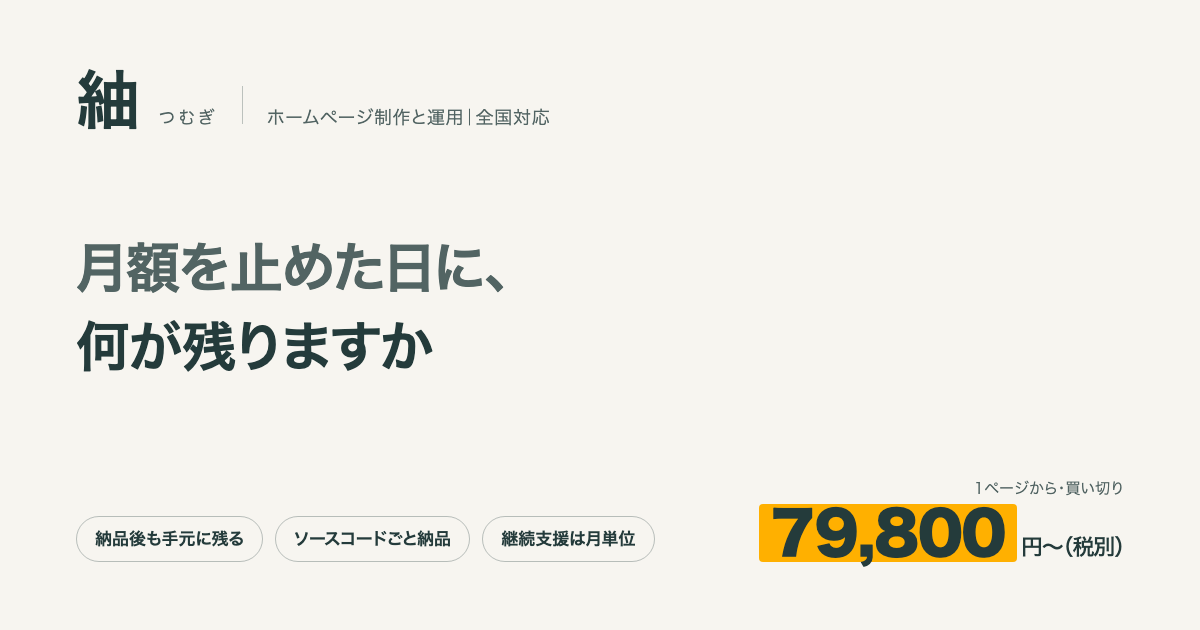
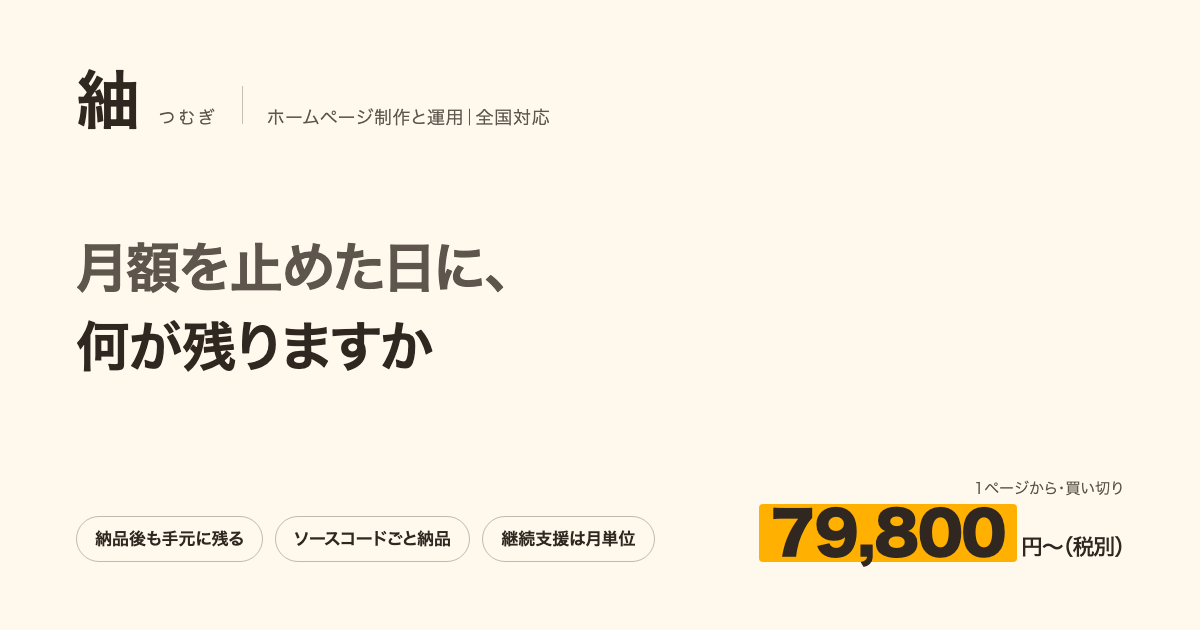
design: pair amber with warm ivory and espresso

diff --git a/src/styles/tokens.css b/src/styles/tokens.css
@@ -5,19 +5,19 @@
  */
 @theme static {
   /* color */
-  --color-main: #F7F5F0;  /* メイン70%：生成り。背景・余白・反転文字 */
-  --color-sub: #243B3B;  /* サブ20%：墨。本文・説明の面・構造線 */
+  --color-main: #FFF8ED;  /* メイン70%：アイボリー。背景・余白・反転文字 */
+  --color-sub: #302820;  /* サブ20%：エスプレッソ。本文・説明の面・構造線 */
   --color-accent: #FFB000;  /* アクセント10%：琥珀。主要操作・重要な数字・相談の面 */
-  --color-header-paper: #F7F5F0;
-  --color-header-ink: #243B3B;
+  --color-header-paper: #FFF8ED;
+  --color-header-ink: #302820;
   --color-header-brass: #FFB000;
-  --color-white: #F7F5F0;
-  --color-ink: #243B3B;
-  --color-panel: #243B3B;
-  --color-black: #243B3B;
-  --color-surface: #F7F5F0;
-  --color-field: #F7F5F0;
-  --color-paper: #F7F5F0;
+  --color-white: #FFF8ED;
+  --color-ink: #302820;
+  --color-panel: #302820;
+  --color-black: #302820;
+  --color-surface: #FFF8ED;
+  --color-field: #FFF8ED;
+  --color-paper: #FFF8ED;
   --color-line: color-mix(in srgb, var(--color-sub) 20%, var(--color-main));
   --color-line-strong: color-mix(in srgb, var(--color-sub) 45%, var(--color-main));
   --color-green: #FFB000;
@@ -25,19 +25,19 @@
   --color-blue: #FFB000;
   --color-muted: color-mix(in srgb, var(--color-sub) 78%, var(--color-main));
   --color-muted-on-ink: color-mix(in srgb, var(--color-main) 82%, var(--color-sub));
-  --color-alert: #243B3B;
-  --color-alert-bg: #F7F5F0;
+  --color-alert: #302820;
+  --color-alert-bg: #FFF8ED;
   --color-ok: color-mix(in srgb, var(--color-accent) 25%, var(--color-sub));
-  --color-ok-bg: #F7F5F0;
-  --color-warn: #243B3B;
-  --color-warn-bg: #F7F5F0;
+  --color-ok-bg: #FFF8ED;
+  --color-warn: #302820;
+  --color-warn-bg: #FFF8ED;
 
   /* theme */
   --color-campaign-accent: #FFB000;
-  --color-campaign-accent-ink: #243B3B;  /* 琥珀の面は墨の文字。小さい文字も薄めない */
+  --color-campaign-accent-ink: #302820;  /* 琥珀の面はエスプレッソの文字。小さい文字も薄めない */
   --color-campaign-accent-text: color-mix(in srgb, var(--color-accent) 25%, var(--color-sub));  /* 白地に置く強調文字・リンク */
   --color-main-accent: #FFB000;
-  --color-main-accent-ink: #243B3B;
+  --color-main-accent-ink: #302820;
   --color-main-accent-text: color-mix(in srgb, var(--color-accent) 25%, var(--color-sub));
 
   /* size */

diff --git a/tools/verify/static.ts b/tools/verify/static.ts
@@ -70,8 +70,8 @@ export function checkStatic(dist: string): void {
     ['--spacing-measure-read: 720px', '読み幅 720px'],
     ['--text-hero-pc: 45px', 'ヒーロー PC 45px'],
     ['--text-hero-mb: 24px', 'ヒーロー モバイル 24px'],
-    ['--color-main: #F7F5F0', 'メイン70%・生成り #F7F5F0'],
-    ['--color-sub: #243B3B', 'サブ20%・墨 #243B3B'],
+    ['--color-main: #FFF8ED', 'メイン70%・アイボリー #FFF8ED'],
+    ['--color-sub: #302820', 'サブ20%・エスプレッソ #302820'],
     ['--color-accent: #FFB000', 'アクセント10%・琥珀 #FFB000'],
     ['--radius-media: 8px', '角丸 media 8px'],
     ['--radius-pill: 999px', '角丸 pill 999px'],

diff --git a/tests/styles.test.ts b/tests/styles.test.ts
@@ -41,8 +41,8 @@ describe('Tailwind production compiler', () => {
         await buildStyles(`src/styles/${input}.css`, output);
         const css = readFileSync(output, 'utf8');
         expect(css).toContain('tailwindcss v4.');
-        expect(css).toContain('--color-main: #F7F5F0');
-        expect(css).toContain('--color-sub: #243B3B');
+        expect(css).toContain('--color-main: #FFF8ED');
+        expect(css).toContain('--color-sub: #302820');
         expect(css).toContain('--color-accent: #FFB000');
         expect(css).not.toMatch(/@(?:apply|theme|import|source)\b/);
         if (input === 'globals') {

diff --git a/docs/product/design.md b/docs/product/design.md
@@ -13,8 +13,8 @@
 
 | 項目 | 値 | 出所 |
 |---|---|---|
-| メイン70% | 生成り `#F7F5F0`：背景・余白・図解の面 | ADR 0014 |
-| サブ20% | 墨 `#243B3B`：文字・説明の暗い章 | ADR 0014 |
+| メイン70% | アイボリー `#FFF8ED`：背景・余白・図解の面 | ADR 0014 |
+| サブ20% | エスプレッソ `#302820`：文字・説明の暗い章 | ADR 0014 |
 | アクセント10% | 琥珀 `#FFB000`：主要CTA・料金・相談の面 | ADR 0014 |
 | 補助文字・線 | 上記3色からの混色・透過。独立した色値を増やさない | ADR 0014 |
 | ヘッダー高 | PC 88px → モバイル 72px | ADR 0006（07 寸法を更新） |
@@ -33,7 +33,7 @@
 
 ### 紬のブランドヘッダー
 
-生成り `#F7F5F0` に墨 `#243B3B` を置き、琥珀 `#FFB000` の問い合わせボタンと細い罫線を添えます。屋号だけを端末の明朝にし、欧文とナビゲーションは既存のゴシックにします。ヘッダーは画像に重ねず、その直上に独立した面として置きます。
+アイボリー `#FFF8ED` にエスプレッソ `#302820` を置き、琥珀 `#FFB000` の問い合わせボタンと細い罫線を添えます。屋号だけを端末の明朝にし、欧文とナビゲーションは既存のゴシックにします。ヘッダーは画像に重ねず、その直上に独立した面として置きます。
 
 PCは88px、768px以下は72px。999px以下では横並びの主ナビを全体メニューに集約し、問い合わせは常時表示します。1440px以上では電話もヘッダーに表示し、それ以下では全体メニューと既存の下部導線から利用できます。電話はアイコンと番号だけです。準備中の注意帯は残します。
 
@@ -41,11 +41,11 @@ PCは88px、768px以下は72px。999px以下では横並びの主ナビを全体
 
 ### 3色の使い方と7:2:1
 
-メイン70%・サブ20%・アクセント10%は、写真・ヒーローイラストを除くUIの面積バランスの目安です。すべての部品やページを同じピクセル比率へ強制するものではありません。ホームでは生成りの本文を中心に、約束・標準仕様・料金比較を墨色の章、最後の相談と冒頭の料金パネルを琥珀色の面とします。スマートフォンは文章が縦に伸びるため比率が多少変わります。
+メイン70%・サブ20%・アクセント10%は、写真・ヒーローイラストを除くUIの面積バランスの目安です。すべての部品やページを同じピクセル比率へ強制するものではありません。ホームではアイボリーの本文を中心に、約束・標準仕様・料金比較をエスプレッソ色の章、最後の相談と冒頭の料金パネルを琥珀色の面とします。スマートフォンは文章が縦に伸びるため比率が多少変わります。
 
 色値の正本は `src/styles/design.tokens.json` の `color.main` / `color.sub` / `color.accent` の3項目だけです。残りの色トークンは参照、または3色の混色・透過です。`PROFILE` の `campaign` と `main` も同じパレットを参照し、緑・青を復活させません。既存トークン名は部品互換のため保持します。ブラウザのテーマ色・OGP・ファビコンも同じ正本を使います。
 
-生成りと墨、琥珀と墨の組み合わせで文字を配置します。琥珀の面の小さな文字は墨にし、明るい面には琥珀と墨の混色による濃い強調文字を使います。暗い章でも図解のキャンバスは生成りにして、図内の文字と記号の読みやすさを確保します。アクセント変更の判断は [ADR 0015](../architecture/0015-amber-accent.md) を参照してください。状態は色だけに依存せず、チェック・バツ・見出し・説明文を残します。
+アイボリーとエスプレッソ、琥珀とエスプレッソの組み合わせで文字を配置します。琥珀の面の小さな文字はエスプレッソにし、明るい面には琥珀とエスプレッソの混色による濃い強調文字を使います。暗い章でも図解のキャンバスはアイボリーにして、図内の文字と記号の読みやすさを確保します。琥珀の採用は [ADR 0015](../architecture/0015-amber-accent.md)、メイン・サブの調整は [ADR 0016](../architecture/0016-warm-base-palette.md) を参照してください。状態は色だけに依存せず、チェック・バツ・見出し・説明文を残します。
 
 ヒーローの原画・アイコン・図解・コピー・料金のデータは保持します。追加の実行時JavaScript、外部フォント、UIライブラリはありません。判断と検証は [ADR 0014](../architecture/0014-three-color-system.md) を参照してください。
 
@@ -194,8 +194,8 @@ LCPが実測0.30秒で描画が詰まっていないのに、
 作り方の決めごと：
 
 - **色は2つだけ意味を持つ。**`--fig-accent`（こちらが勧める側）と `--fig-ok`（残るもの）。
-  `--fig-bad`（失われるもの）を加えた3つ。ほかは全部 `currentColor` の濃淡なので、明るい節・墨紺の節・ダークテーマのどこに置いても成立します
-- **暗い章でも図解の面を生成りにする。**図内は琥珀と墨で意味を区別し、小さい文字にも通常のコントラスト条件を適用します（ADR 0014）。
+  `--fig-bad`（失われるもの）を加えた3つ。ほかは全部 `currentColor` の濃淡なので、明るい節・エスプレッソ紺の節・ダークテーマのどこに置いても成立します
+- **暗い章でも図解の面をアイボリーにする。**図内は琥珀とエスプレッソで意味を区別し、小さい文字にも通常のコントラスト条件を適用します（ADR 0014）。
 - **`marker` の id は図ごとに固有にする。**1ページに複数の図が載るため、
   `fig()` が図の aria-label から決まる接尾辞を付けます（`dg-a…` / `dg-p…`）。
   通し番号にしないのは、ページを並列に書き出すとビルドのたびに番号が変わり、同じ入力から同じ HTML が出なくなるため

diff --git a/docs/status.md b/docs/status.md
@@ -1,6 +1,6 @@
 # 現状と残課題
 
-- 最終更新：2026-09-14（生成り・墨・琥珀の3色リデザイン）
+- 最終更新：2026-09-14（アイボリー・エスプレッソ・琥珀の3色リデザイン）
 - **作業を終えたら、この文書を更新する。** 終わった課題は消さずに「完了した課題」へ移し、日付を入れる
 - 事業として決めること（運用の工数・集客経路・出張撮影の扱いなど）の順番は、[ビジネスガイドライン](business/紬_ビジネスガイドライン.md) の「12. 未決事項」が正本。法令まわりの未解決は同じ文書の「8.1」。ここには、**コードと公開作業に関わるもの**を書く
 
@@ -22,9 +22,9 @@
 | 動作を確かめた環境 | macOS・Node 24.21.0・npm 12.0.2・Playwright 1.63.0（Chromium）。ローカル・CI・Vercel を Node 24 系へ統一 |
 | 文言とルート | `i18n/locales/ja/` と `routing/registry.ts` に集約。Next の入口3枚と表示テンプレートを分離。電話は共通部品でアイコン＋番号だけを表示（ADR 0004） |
 | CSSの中央管理 | Tailwind CSS 4.3.3。88個のトークンから `@theme` を生成し、公開ページは `globals.css`、共有カード画像は `og.css` を入口にコンパイル。ページの静的インライン指定を解消、開発時の監視と中央管理の自動検査を追加（ADR 0009） |
-| 共通フッター | 生成りの面と琥珀のCTAに、相談・連絡先・案内・大きなブランド文字を配置。アイコン32個、20ページへの案内、先頭への移動、現在地を表示（ADR 0008） |
-| ホーム本文 | 生成り70%・墨20%・琥珀10%をUI面積の目安として、広い図解・左右に分けた説明・料金比較・FAQを再構成。元の図解4点と全説明文を保持、本文のLucideアイコンは31→45。本文の構成はADR 0007、現行の配色はADR 0014 |
-| 共通ヘッダー | 生成り・墨・琥珀・明朝の屋号。高さ88/72px、問い合わせCTAとネイティブの全体メニュー。追加の実行時JS・外部フォントなし（ADR 0006） |
+| 共通フッター | アイボリーの面と琥珀のCTAに、相談・連絡先・案内・大きなブランド文字を配置。アイコン32個、20ページへの案内、先頭への移動、現在地を表示（ADR 0008） |
+| ホーム本文 | アイボリー70%・エスプレッソ20%・琥珀10%をUI面積の目安として、広い図解・左右に分けた説明・料金比較・FAQを再構成。元の図解4点と全説明文を保持、本文のLucideアイコンは31→45。本文の構成はADR 0007、現行の配色はADR 0014 |
+| 共通ヘッダー | アイボリー・エスプレッソ・琥珀・明朝の屋号。高さ88/72px、問い合わせCTAとネイティブの全体メニュー。追加の実行時JS・外部フォントなし（ADR 0006） |
 | 暫定ヒーロー | ヘッダー直下に国生みの画像を配置。自己完結SVG（WebP内包、約741 KiB）、モバイルの補助コピーと読み上げに対応（ADR 0005） |
 | 旧版 | Python 版（`svc/`）と Astro 版（`svc-astro/`）は削除済み。コミット `01f39d4` で読める。移植が正しいことの確かめ方は [history/2026-09-migration.md](history/2026-09-migration.md) |
 
@@ -158,3 +158,10 @@ GitHub Actions・Dependabot・npm・Vercelをルート基準へ統一。出力50
 ### 2026-09-14 アクセントを琥珀色へ変更
 
 利用者の黄色系への希望を受け、朱から琥珀 `#FFB000` に変更。生成り・墨との3色構成と7:2:1の面積方針を維持する。明るいアクセントの上は墨文字とし、図解やリンクの小さい強調文字は琥珀と墨から導出する。共有カード・ファビコンも同期。売上への効果は未検証であり、色だけを根拠に効果を保証しない。判断と検証は [ADR 0015](architecture/0015-amber-accent.md)。
+
+
+### 2026-09-14 琥珀に合わせてメイン・サブを調整
+
+メインを温かいアイボリー `#FFF8ED`、サブを深いブラウンのエスプレッソ `#302820` に変更。琥珀 `#FFB000` と70/20/10の構成を維持し、3色の色相を暖色側へ揃えた。中央トークンから文字・線・反転表示・ブラウザテーマ色・共有画像へ反映。原画・コピー・アイコン・図解の構成は保持する。判断は [ADR 0016](architecture/0016-warm-base-palette.md)。
+
+検証：型・lint・単体107件・料金モデル9件・ビルド成功。標準603 PASS / WARN 1 / FAIL 0、静的358 PASS。全21ページ×幅390/1440pxの42組で文字・図のコントラストと横はみ出しの失敗なし。

diff --git a/docs/spec.md b/docs/spec.md
@@ -24,7 +24,7 @@
 - 料金ページに全プランの金額が載っている
 - 業種別ページが4本ある
 - **`design.tokens.json` と `tokens.css` が同期している**（ずれていたら納品しない）
-- **採用した寸法・色15項目が出ている**（ヘッダーはADR 0006の88/72px、315×57、260×48、1104px、720px、45/24px、生成り `#F7F5F0`、墨 `#243B3B`、琥珀 `#FFB000`（ADR 0014）、角丸…）
+- **採用した寸法・色15項目が出ている**（ヘッダーはADR 0006の88/72px、315×57、260×48、1104px、720px、45/24px、アイボリー `#FFF8ED`、エスプレッソ `#302820`、琥珀 `#FFB000`（ADR 0014）、角丸…）
 - **使わないと決めた値が混入していない**（`#858A95`、旧Shipporiフォント、外部フォントの読み込み。屋号の端末明朝はADR 0006で採用）
 - **全ページに og:image があり、その画像が out に実在する**（真っ白な共有カードを出さない）
 - **ファビコンと apple-touch-icon が入っている**
@@ -55,7 +55,7 @@
 3. **1ページだけタップ領域の判定が誤検出していた。**
    CSS適用前に計測していた競合状態。
    → スタイルシートの適用完了を待ってから計測するようにしました。
-4. **図の琥珀色の注記が、墨紺の節の上で 2.94:1 しか出ていなかった。**
+4. **図の琥珀色の注記が、エスプレッソ紺の節の上で 2.94:1 しか出ていなかった。**
    SVGの `<text>` は `fill` で色が決まるため、本文用のコントラスト検査を素通りしていました。
    → 図専用の検査を足し、`section.dark .fig` でトークンを明るい側に振り替えました。
 

diff --git a/docs/architecture/0016-warm-base-palette.md b/docs/architecture/0016-warm-base-palette.md
@@ -1,0 +1,17 @@
+# ADR 0016: 琥珀と調和するメイン・サブカラー
+
+- 状態: 採用
+- 日付: 2026-09-14
+- 更新対象: ADR 0014・0015のメイン／サブの色値
+
+## 判断
+
+利用者の「メインとサブカラーも相性のいい色へ」という希望に合わせ、メインをアイボリー `#FFF8ED`、サブをエスプレッソブラウン `#302820` に変更する。アクセントの琥珀 `#FFB000` を保持し、3色を暖色側へ揃える。明るい背景のやわらかさと、濃い文字・セクションの落ち着きを両立する意図で選ぶ。
+
+イラストを除くUI面積70/20/10の目安、部品の寸法・構成・文言・価格・ルート・図解・アイコン・ヒーロー原画を維持する。ブラウザテーマ色、線や補助文字、反転表示、OGP21枚、ファビコン3種は中央トークンから同期する。CSSの追加色や追加依存はない。OGPはADR 0014・0015と同じmacOSの既存フォント環境で生成する。
+
+## 検証
+
+型・lint・単体107件・料金モデル9件・ビルドを実施。標準603 PASS / WARN 1 / FAIL 0、静的358 PASS。既知の仮設定警告は維持する。PCとスマートフォンのホームを目視し、本文、料金パネル、濃い比較セクション、相談を確認した。全21ページ×390/1440pxの文字・図のコントラストと横はみ出しを42組で検査し、失敗なしを確認した。
+
+検証環境はChromium。色の好みや成果には利用者ごとの差があり、売上効果を実証した変更ではない。本番デプロイ・実機Safariは今回の範囲外。

diff --git a/README.md b/README.md
@@ -44,10 +44,10 @@ flowchart TD
 
 | メイン70% | サブ20% | アクセント10% |
 |---|---|---|
-| 生成り `#F7F5F0` | 墨 `#243B3B` | 琥珀 `#FFB000` |
+| アイボリー `#FFF8ED` | エスプレッソ `#302820` | 琥珀 `#FFB000` |
 | 背景・余白 | 文字・説明の章 | 主要ボタン・料金・相談 |
 
-比率はイラストを除くUI面積の目安です。3色の正本と派生トークンを中央管理し、ヘッダーからフッター、共有カードまで揃えています。[配色ルール](docs/product/design.md#3色の使い方と721) · [判断と検証](docs/architecture/0014-three-color-system.md)
+比率はイラストを除くUI面積の目安です。3色の正本と派生トークンを中央管理し、ヘッダーからフッター、共有カードまで揃えています。[配色ルール](docs/product/design.md#3色の使い方と721) · [判断と検証](docs/architecture/0016-warm-base-palette.md)
 
 ## ディレクトリ構成
 

diff --git a/docs/architecture/README.md b/docs/architecture/README.md
@@ -35,6 +35,8 @@
 
 - [0015 アクセントを琥珀色へ変更](0015-amber-accent.md)
 
+- [0016 琥珀と調和するメイン・サブカラー](0016-warm-base-palette.md)
+
 ## 技術的な判断とその理由
 
 | 判断 | 理由 |
